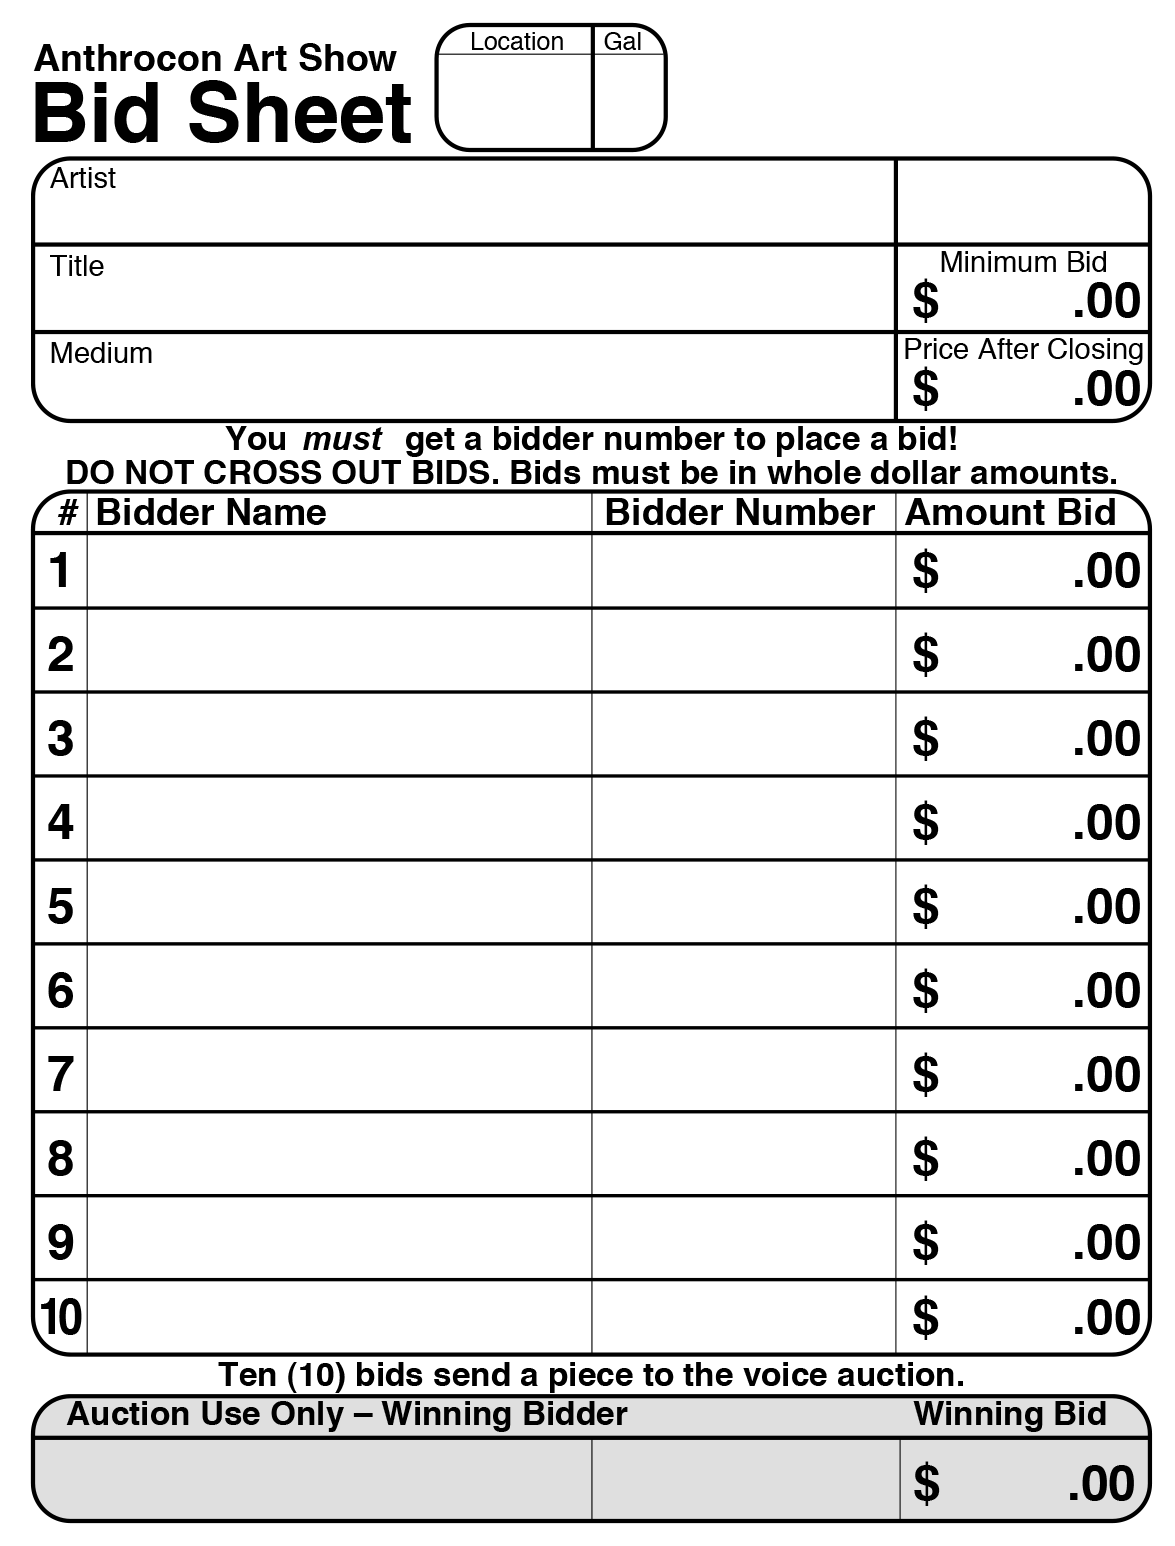
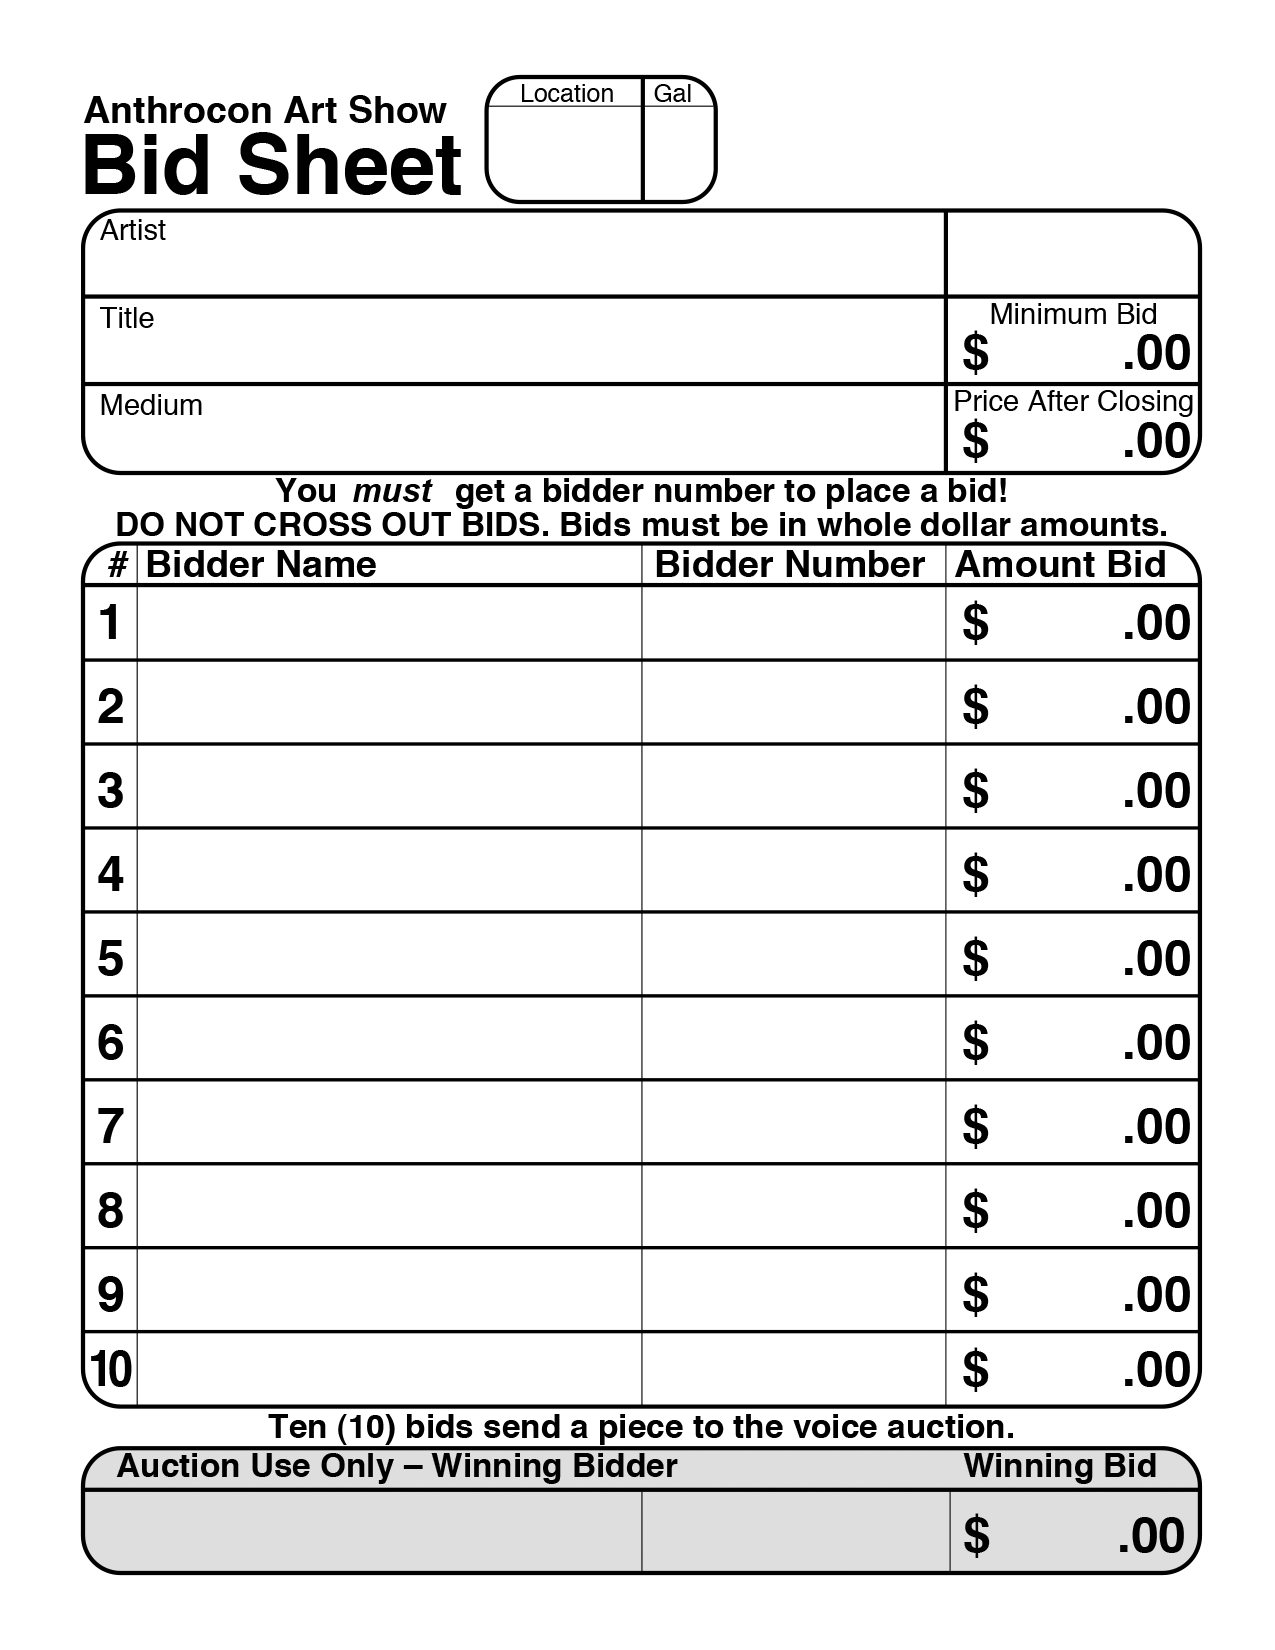
Update bidsheet base image Now we have proper margins!

Changed region(s): [[0.0, 0.0, 0.9804, 0.9935]]

diff --git a/anthrocon/models.py b/anthrocon/models.py
@@ -80,46 +80,46 @@ class ArtShowPiece:
         xplus = yplus = 0
 
         if sheet_num in [1, 3]:
-            xplus = 305
+            xplus = 306
         if sheet_num in [2, 3]:
-            yplus = 394
+            yplus = 396
 
         # Gallery, Piece ID and Barcode
-        pdf.image(get_static_file_path('bidsheet.png'), x=0 + xplus, y=-2 + yplus, w=305)
+        pdf.image(get_static_file_path('bidsheet.png'), x=xplus, y=yplus, w=306)
         pdf.set_font(normal_font_name, size=15)
-        pdf.set_xy(154 + xplus, 15 + yplus)
+        pdf.set_xy(154 + xplus, 27 + yplus)
         if self.gallery == c.GENERAL:
             pdf.cell(132, 22, txt="G", ln=1, align="L")
         else:
             pdf.cell(132, 22, txt="M", ln=1, align="L")
         pdf.set_font("3of9", size=27)
-        pdf.set_xy(178 + xplus, 8 + yplus)
+        pdf.set_xy(173 + xplus, 19 + yplus)
         pdf.cell(132, 22, txt=self.barcode_data, ln=1, align="C")
         pdf.set_font(bold_font_name, size=8)
-        pdf.set_xy(178 + xplus, 27 + yplus)
+        pdf.set_xy(173 + xplus, 38 + yplus)
         pdf.cell(132, 12, txt=self.artist_and_piece_id, ln=1, align="C")
 
         # Artist
         pdf.set_font(normal_font_name, size=12)
         set_fitted_font_size(self.artist_name or self.app_display_name, max_size=260)
-        pdf.set_xy(10 + xplus, 41 + yplus)
+        pdf.set_xy(12 + xplus, 51 + yplus)
         pdf.cell(230, 24, txt=(self.artist_name or self.app_display_name), ln=1, align="C")
         
         # Title
-        pdf.set_xy(10 + xplus, 65 + yplus)
         set_fitted_font_size(self.name, max_size=260)
+        pdf.set_xy(12 + xplus, 73 + yplus)
         pdf.cell(230, 24, txt=self.name, ln=1, align="C")
         
         # Media
-        pdf.set_font(normal_font_name, size=12)
-        pdf.set_xy(10 + xplus, 87 + yplus)
+        set_fitted_font_size(self.name, max_size=260)
+        pdf.set_xy(12 + xplus, 94 + yplus)
         pdf.cell(230, 24, txt=self.media, ln=1, align="C")
 
         # Type: Print/Original
         # Display "Original", "Print", "Print X (Open Edition)", or "Print X of Y"
         
         if self.type == c.ORIGINAL:
-            pdf.set_xy(235 + xplus, 39 + yplus)
+            pdf.set_xy(232 + xplus, 50 + yplus)
             pdf.set_font(normal_font_name, size=12)
             pdf.cell(53, 24, txt="Original", ln=1, align="L")
         else: # PRINT
@@ -127,31 +127,31 @@ class ArtShowPiece:
             if self.print_run_num and self.print_run_total:
                 pdf.set_font(normal_font_name, size=9)
 
-                pdf.set_xy(235 + xplus, 33 + yplus)
+                pdf.set_xy(233 + xplus, 45 + yplus)
                 pdf.cell(53, 24, txt=f"Print", ln=1, align="L")
 
-                pdf.set_xy(235 + xplus, 42 + yplus)
+                pdf.set_xy(233 + xplus, 54 + yplus)
                 pdf.cell(53, 24, txt=f"({self.print_run_num} of {self.print_run_total})", ln=1, align="L")
             # Only X entered, display "Print X (Open Edition)"
             elif self.print_run_num:
                 pdf.set_font(normal_font_name, size=9)
 
-                pdf.set_xy(235 + xplus, 33 + yplus)
+                pdf.set_xy(233 + xplus, 45 + yplus)
                 pdf.cell(53, 24, txt=f"Print {self.print_run_num}", ln=1, align="L")
 
-                pdf.set_xy(235 + xplus, 42 + yplus)
+                pdf.set_xy(233 + xplus, 54 + yplus)
                 pdf.cell(53, 24, txt=f"Open Edition", ln=1, align="L")
             # No X of Y entered, display "Print"
             else:
-                pdf.set_xy(235 + xplus, 39 + yplus)
+                pdf.set_xy(241 + xplus, 50 + yplus)
                 pdf.set_font(normal_font_name, size=12)
                 pdf.cell(53, 24, txt="Print", ln=1, align="L")
 
         # Minimum Bid, QuickSale Price
-        pdf.set_font(bold_font_name, size=12)
-        pdf.set_xy(228 + xplus, 70 + yplus)
+        pdf.set_font(bold_font_name, size=11)
+        pdf.set_xy(219 + xplus, 78 + yplus)
         pdf.cell(53, 14, txt=str(self.opening_bid) if self.valid_for_sale else 'NFS', ln=1, align="R")
-        pdf.set_xy(228 + xplus, 92 + yplus)
+        pdf.set_xy(219 + xplus, 99 + yplus)
         pdf.cell(53, 14, txt=str(self.quick_sale_price) if self.valid_quick_sale else 'NFS', ln=1, align="R")
 
     @property
